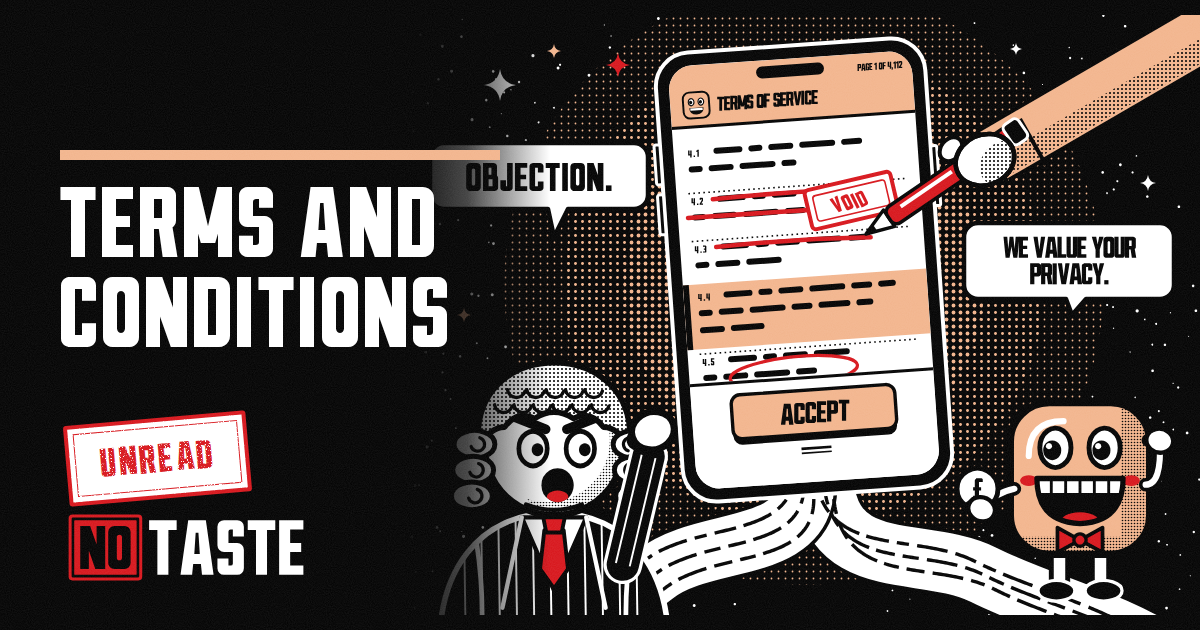
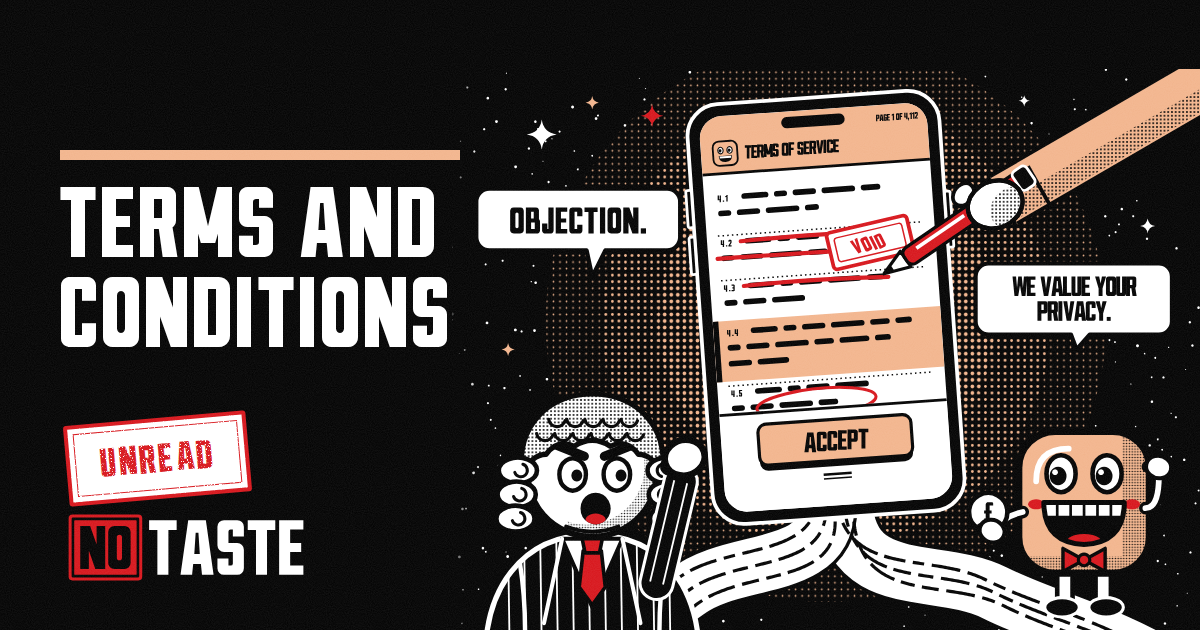
Terms and Conditions: gentler apps, two rights back, an autopilot that can be beaten, its own part of DESIGN.md
Reading every clause as it arrives now takes about 24 characters a second
in the first app on a desktop, rising to about 30 by the end of the bank,
where it used to take 31 to 51. One normal clause fewer an app keeps the
round about as long as it was. Up to two rights back between apps.

The autopilot misses a few, falls for a real clause, and tries Decline once
in the bank, so a clip shows a STET, a signature and a Decline.

The share image's Objection bubble is clear of the title bar.

Claude-Session: https://claude.ai/code/session_01Phqp5Sct2fBuhmAQCcMgAG

diff --git a/public/games/terms-and-conditions/terms-and-conditions.js b/public/games/terms-and-conditions/terms-and-conditions.js
@@ -31,7 +31,7 @@
 //   4. A Bank (Penny, wears a bow tie). Legal leans in and edits clauses on the
 //      screen while you read: a word struck out, a new one written in. A fine
 //      clause can go bad in front of you. Fastest, longest, and it speeds up.
-// Between apps (shell.interlude) you get one right back and pick a perk, each
+// Between apps (shell.interlude) you get up to two rights back and pick a perk, each
 // with a cost: reading glasses, strong coffee, skimming, legal aid, a friend
 // who reads terms, an ad blocker, a highlighter, a cooling-off period.
 // A round is about two minutes.
@@ -84,12 +84,17 @@
   var READ = 1.2;              // seconds a clause must have been all on screen before a push can carry it off the top
   var SIGNED_MS = 0.85;        // how long the Signed stamp stays up at the top of the page
 
-  // What each app's terms hold. lps: lines a second the page scrolls.
+  // What each app's terms hold. lps: lines a second the page scrolls, and
+  // ramp: how much faster it is by the end. Reading every clause in full as
+  // it arrives takes about 24 characters a second in the first app on a
+  // desktop, an ordinary reading speed, rising to about 30 by the end of the
+  // bank (stings and small print pack more words into a line, so the later
+  // apps ask more of you than their speed suggests)
   var STAGES = [
-    { normal: 7, bad: 5, sting: 0, smallBad: 0, smallOk: 0, amend: 0, popups: 0, lps: 1.15, ramp: 0.08 },
-    { normal: 7, bad: 3, sting: 3, smallBad: 0, smallOk: 0, amend: 0, popups: 1, lps: 1.35, ramp: 0.1 },
-    { normal: 6, bad: 3, sting: 2, smallBad: 3, smallOk: 3, amend: 0, popups: 2, lps: 1.55, ramp: 0.12 },
-    { normal: 6, bad: 2, sting: 3, smallBad: 3, smallOk: 2, amend: 3, popups: 2, lps: 1.7, ramp: 0.15 }
+    { normal: 6, bad: 5, sting: 0, smallBad: 0, smallOk: 0, amend: 0, popups: 0, lps: 1.12, ramp: 0.06 },
+    { normal: 6, bad: 3, sting: 3, smallBad: 0, smallOk: 0, amend: 0, popups: 1, lps: 1.18, ramp: 0.08 },
+    { normal: 5, bad: 3, sting: 2, smallBad: 3, smallOk: 2, amend: 0, popups: 2, lps: 1.3, ramp: 0.1 },
+    { normal: 5, bad: 2, sting: 3, smallBad: 3, smallOk: 2, amend: 3, popups: 2, lps: 1.42, ramp: 0.12 }
   ];
 
   // What's new each app, shown as a notice with the countdown
@@ -310,10 +315,10 @@
         m.mascot = { x: mx, y: H - 6, s: tm };
         m.talk = { x: lx + 48 * ts + 8, r: mx - 40 * tm - 8 };
       } else {
-        // peeking: the wig and the eyes, the top of the icon and its grin
-        var ps = (m.strip.h - 3) / 60;
+        // peeking: the wig, the eyes and the frown, the top of the icon and its grin
+        var ps = (m.strip.h - 3) / 58;
         lx = 48 * ps + 3;
-        m.legal = { x: lx, y: sy + 3 + 136 * ps, s: ps, low: true };
+        m.legal = { x: lx, y: sy + 3 + 124 * ps, s: ps, low: true };
         var pm = (m.strip.h - 3) / 66;
         mx = W - 42 * pm - 3;
         m.mascot = { x: mx, y: sy + 3 + 104 * pm, s: pm };
@@ -981,8 +986,9 @@
   }
 
   function stageClear() {
-    var restored = run.rights < RIGHTS;
-    if (restored) run.rights++;
+    // up to two rights back between apps (never over five; Cooling-off can)
+    var restored = Math.max(0, Math.min(2, RIGHTS - run.rights));
+    run.rights += restored;
     paintHud();
     var offers = offer();
     var next = C.apps[stage + 1];
@@ -992,7 +998,7 @@
       { label: "Struck", value: run.stageCaught + "/" + total },
       { label: "Wrong strikes", value: String(run.stageWrong) },
       { label: "Signed away", value: String(run.stageMissed) },
-      { label: "Rights", value: run.rights + (restored ? " (one back)" : "") },
+      { label: "Rights", value: run.rights + (restored === 2 ? " (two back)" : restored ? " (one back)" : "") },
       { label: "Score", value: fmt(run.score) }
     ];
     shell.interlude({
@@ -1364,7 +1370,7 @@
         var skill = [0.9, 0.86, 0.85, 0.84][stage];
         // wrong strikes: mostly the real clauses that sound bad, and one for
         // sure once the first app's done, so a run shows Legal's STET
-        var fooled = b.real ? 0.35 : run.wrong === 0 && stage >= 1 ? 0.3 : 0.03;
+        var fooled = b.real ? 0.25 : run.wrong === 0 && stage >= 1 ? 0.25 : 0.02;
         b.verdict = isBad(b) ? (Math.random() < skill ? "strike" : "miss") : (Math.random() < fooled ? "strike" : "leave");
         b.readFor = 0.5 + (b.text.length + (b.foot ? b.foot.length : 0)) * 0.022;
       }
@@ -1646,7 +1652,7 @@
     drawPage(c);
     drawSigns(c);
     drawHeader(c);
-    if (phase === "accept" || (phase === "done" && footer > 0)) drawFooter(c);
+    if (phase === "accept" || ((phase === "done" || phase === "over") && footer > 0)) drawFooter(c);
     if (popup) drawPopup(c);
     c.setTransform(DPR, 0, 0, DPR, 0, 0);
     drawCast(c);

diff --git a/DESIGN.md b/DESIGN.md
@@ -298,15 +298,15 @@ To be written when the game is built.
 
 ### Terms and Conditions
 
-Read the terms, strike out the bad bits, accept anyway. The joke is on the companies writing the terms, never on the person reading them: the reader is the one sensible person in the game, and the terms, Legal and the mascots are the comedy. Normal clauses are real-sounding boilerplate, including the real ones that are already bad ("We may transfer our rights under these terms to another company"); striking one of those costs you, which is the point.
+Read the terms, strike out the bad bits, accept anyway. The joke is on the companies writing the terms, never on the person reading them: the reader is the one sensible person in the game, and the terms, Legal and the mascots are the comedy. Normal clauses are real-sounding boilerplate, including the real ones that are already bad ("We may transfer our rights under these terms to another company"); striking one of those costs you, which is the point, and Legal says so ("That one's real. It's in yours."), and the results quote it ("That one's real.").
 
-- **The phone.** The terms are a paper page on a phone: an ink body with a paper outline, a peach header (the phone's status bar, a notch, the app's icon and name, and a page count that runs into thousands), clause numbers in Notaste Display and the clauses in the device's own font, at 13px or more even on a 375px phone. Rules between clauses are dotted, since grey is halftone on white. A scrollbar shows how far you are. Wide screens show the whole phone with the cast either side; phones fill the screen with the page and the cast peek up from the bottom corners, rising when they speak. Where the HUD's corners sit over the phone's top edge, the edge stops short of them, like a label on a form, rather than running through the words. Under the results and the choices between apps the page dims, so words aren't read against words.
-- **Legal**, the company's lawyer: the house cut-out (round body, big round head, no neck, furious eyebrows, a frown and a second chin, mitten hands) in a pinstripe suit (ink, paper stripes and edge) with a red tie, and a barrister's wig, white with halftone: a cap of curls and three rolls down each side. Paid by the word, offended by readers. He shouts with a raised fist, smirks when you sign something, confiscates your pen (holding the red pen up), and in the bank reaches a long pinstripe arm across the page to edit a clause with an ink pen. His words in the house register: "That one was fine, you melon", "Billable", "Stet. Look it up".
+- **The phone.** The terms are a paper page on a phone: an ink body with a paper outline, a peach header (the phone's status bar and notch where there's room, the app's icon and name, and a page count that runs into thousands), clause numbers in Notaste Display and the clauses in the device's own font, at 13px or more even on a 375px phone. Rules between clauses are dotted, since grey is halftone on white. A scrollbar shows how far you are. Wide screens show the whole phone with the cast either side. Phones fill the screen with the page, and the cast have a strip of their own under it (head and shoulders when the screen is tall, just their heads peeking up on a phone's square screen), and talk there, in the gap between the two of them with the tail pointing sideways, so nothing they say covers the terms. Legal has the floor when there's only room for one bubble. On a touch screen a round goes full-window by itself (`fullOnTouch`), so a phone reads the terms at its full height. Where the HUD's corners sit over the phone's top edge, the edge stops short of them, like a label on a form, rather than running through the words. Under the results and the choices between apps the page dims, so words aren't read against words.
+- **Legal**, the company's lawyer: the house cut-out (round body, big round head, no neck, furious eyebrows, a frown and a second chin, mitten hands) in a pinstripe suit (ink, paper stripes and edge) with a red tie, and a barrister's wig, white with halftone: a cap of curls and three rolls down each side. Paid by the word, offended by readers. He shouts with a raised fist, smirks when you sign something, confiscates your pen (holding the red pen up), and in the bank reaches a long pinstripe arm across the page (with an elbow and a paper shirt cuff) to edit a clause with an ink pen (a paper barrel, an ink cap and nib). His words in the house register: "That one was fine, you melon", "Billable", "Stet. Look it up".
 - **The mascots**: each app's icon come to life. A rounded peach square with an ink outline, halftone down one side, an icon's shine, big glossy eyes, red cheeks and a huge grin with a row of teeth that never changes whatever it's saying. They're the other exception to the furious faces (with the Thonglets). Beam (Torch Plus) holds a torch with a halftone beam; Tilly (Kettle Cloud) is a kettle, spout, handle, lid and steam puffs; Biscuit (Sniff, a dating app for dogs) has floppy ink ears, a tongue, a red collar and a wagging tail; Penny (A Bank) has a red bow tie and a pound coin. They say cheerful corporate things ("Woof. That means we value your privacy").
-- **Marks on the page.** Your pen is red: a strike is a red marker line through every line of the clause, then a red VOID stamp slams on (OVERRULED for one of Legal's edits), with red ink flicked off it. The words that gave a clause away (a sting's last words, the footnote, Legal's new word) get a red ring. A wrong strike gets Legal's STET on a peach label and the red lines fade. A bad clause that scrolls away is signed in ink. Legal's edits strike the old word in ink and write the new one on a peach highlight. Peach is also the keyboard highlight (solid), the mouse's and the hints' highlight (halftone), the app header and the Accept button.
-- **Accept.** At the bottom of every app's terms: a big peach Accept button and a very small Decline, which does nothing but stamp a joke ("Decline: not found", "Decline: chewed", "Decline fee: £25"). Accepting signs anything bad still on the screen. Wait too long and the mascot accepts for you.
-- **Stamp words.** The game's stamp is Unread. Callouts: Accepted, Pen: confiscated, Reading: suspicious (five in a row), Account: flagged (ten), Legal: informed (fifteen), Legal aid, and the Decline jokes. In-canvas stamps: Void, Overruled, Stet.
-- **Only here.** Rights are lives: five pips in the HUD, one signed away for each bad clause that gets past you, one back between apps; lose them all and the run ends ("No rights left."). The results quote one thing you agreed to. You can push the terms on (flick, drag, the wheel, or Down past the last clause) but never back, and Legal approves of skimming; a flick glides on half a screen at most, so a small phone doesn't throw clauses past unread. Legal edits a clause in the upper middle of the page, clear of the speech bubbles, and his hand holds the page nearly still while he writes, so there's time to read it again. Pop-ups ("Are you still reading", with two buttons that both say Yes) cover the page until you close them. Today's run is called Today's terms: everyone gets the same clauses in the same order, the same pop-ups and the same perks on offer, whatever they pick between apps.
+- **Marks on the page.** Your pen is red: a strike is a red marker line through every line of the clause, then a red VOID stamp slams on (OVERRULED for one of Legal's edits), with red ink flicked off it. The words that gave a clause away (a sting's last words, the footnote, Legal's new word) get a red ring. A wrong strike gets Legal's STET on a peach label and the red lines fade. A bad clause that scrolls away is signed in ink, and since it goes off the top half read, a small red Signed stamp lands at the top of the page for a moment and the right goes from the HUD; one signed by Accept, still on the page, gets its Signed stamp where it is. Legal's edits strike the old word in ink and write the new one on a peach highlight. Peach is also the keyboard highlight (solid), the mouse's and the hints' highlight (halftone, and on keys there's only ever the one highlight), the app header and the Accept button. A hint is a small ink tag with a peach arrowhead that sits on the dotted rule above its clause, in the gap between the lines, never on the words.
+- **Accept.** At the bottom of every app's terms: a big peach Accept button (it answers to a 56px patch round it, wherever it's drawn smaller) and a very small Decline, which does nothing but stamp a joke ("Decline: not found", "Decline: chewed", "Decline fee: £25"). Accepting signs anything bad still on the screen. Wait too long and the mascot accepts for you.
+- **Stamp words.** The game's stamp is Unread. Callouts: Accepted, Pen: confiscated, Reading: suspicious (five in a row), Account: flagged (ten), Legal: informed (fifteen), Legal aid, and the Decline jokes. In-canvas stamps: Void, Overruled, Stet, Signed.
+- **Only here.** Rights are lives: five pips in the HUD, one signed away for each bad clause that gets past you, up to two back between apps; lose them all and the run ends ("No rights left."). The results quote one thing you agreed to (or a real clause you struck). You can push the terms on (flick, drag, the wheel, or a press of Down past the last clause) but never back, and Legal approves of skimming. A push never signs away a clause you didn't see: one push (a drag and its glide, a run of wheel turns with no pause, one press of Down; holding Down only walks the highlight) moves the page half a screen at most, and stops short of the first clause that hasn't yet been all on screen for 1.2 seconds. Reading ahead earns nothing, so nothing advertises it. While an app's notice is up the page creeps, and the cast wait for it to go before they say hello. Legal edits a clause in the upper middle of the page, and his hand holds the page nearly still while he writes, so there's time to read it again. Pop-ups ("Are you still reading", with two buttons that both say Yes) cover the page until you close them. Today's run is called Today's terms: everyone gets the same clauses in the same order, the same pop-ups and the same perks on offer, whatever they pick between apps.
 
 ### Just the Recipe
 
